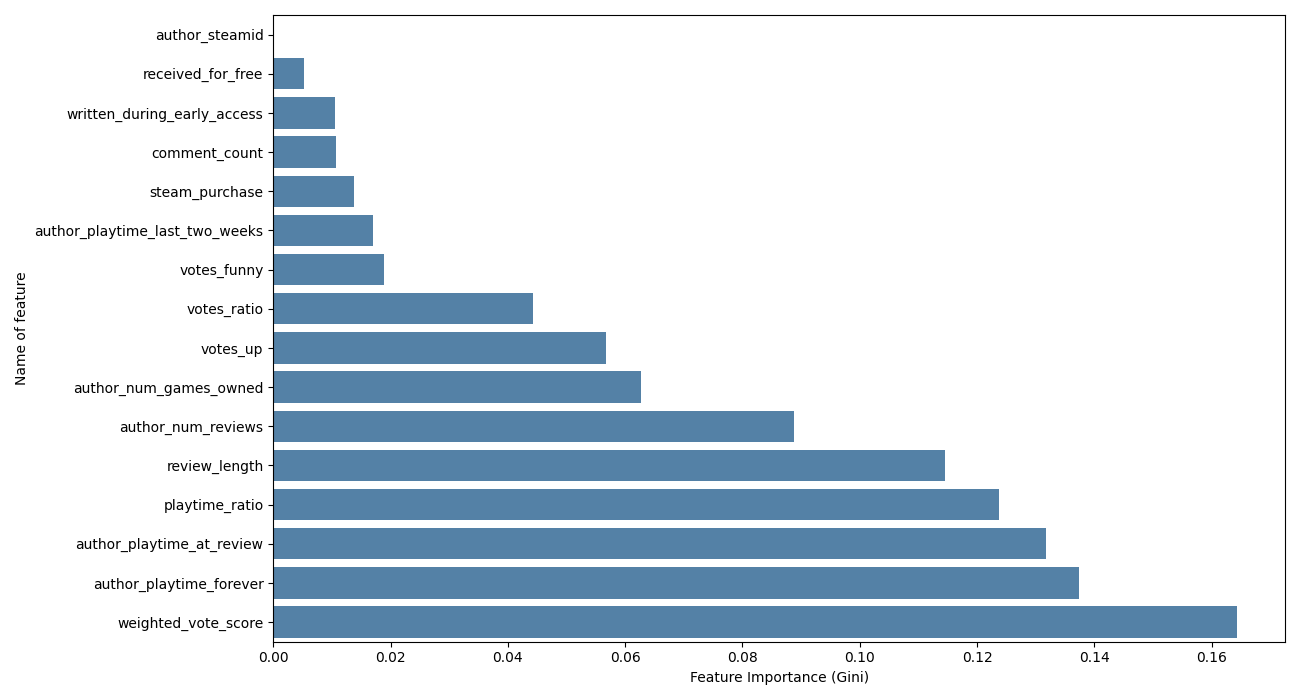
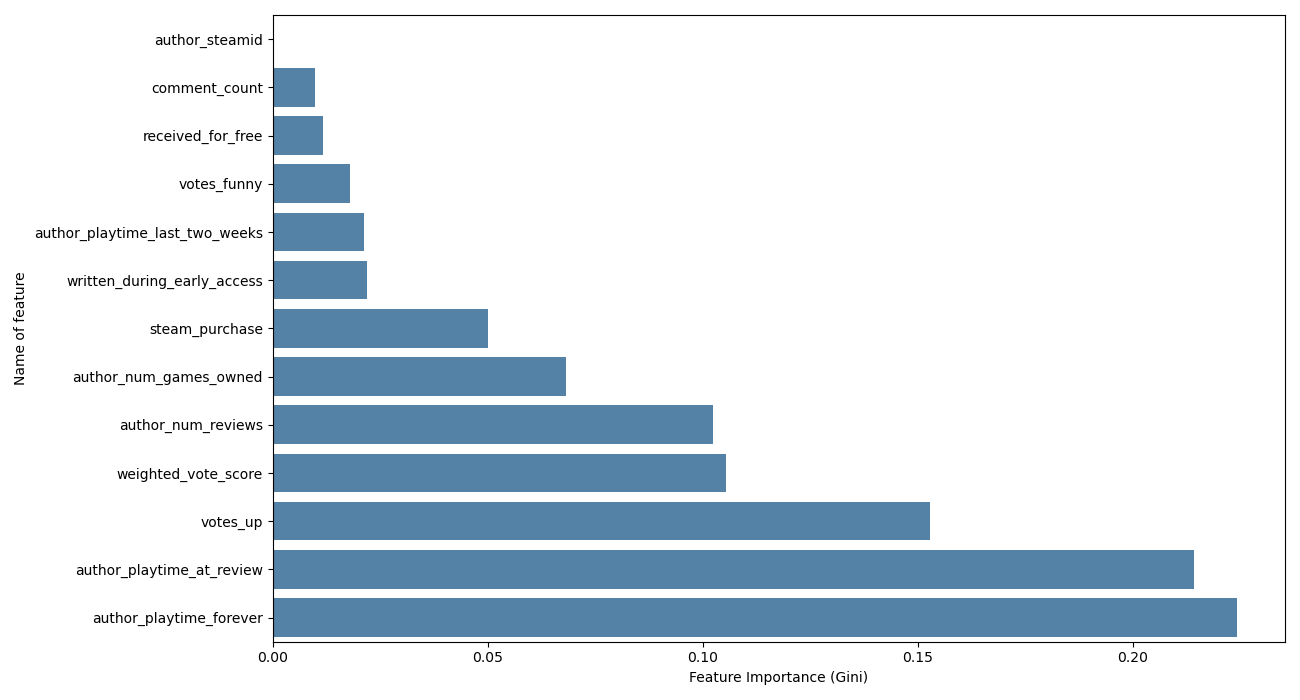
Added Licence, LSTM tuning to main

diff --git a/src/main.py b/src/main.py
@@ -6,7 +6,7 @@ from visualization.visualize import LogisticRegressionVisualizer, RandomForestVi
 
 def main():
     processor = PreProcessor("src/data/raw/balanced_10m_reviews.csv")
-    df = processor.preprocess(100000)
+    df = processor.preprocess(1000000)
     
     feature_builder = LogisticRegressionFeatureEngineering(df)
     #Save original feature list
@@ -63,19 +63,24 @@ def main():
     lstm_train_df, lstm_test_df = lstm_builder.split_data()
     lstm_trainer = LSTMTraining(lstm_train_df, lstm_test_df)
     lstm_results = lstm_trainer.run_lstm_pipeline()
-    print("\nLSTM Results:")
-    for k, v in lstm_results.items():
-        print(f"{k}: {v}")
+    
+    
         
     lstm_plot = LSTMVisualizer(lstm_trainer.model, lstm_trainer.history, lstm_trainer.y_test, lstm_trainer.y_pred, lstm_trainer.y_pred_proba)
     lstm_plot.plot_all()
+    
+    lstm_tuned = lstm_trainer.run_lstm_pipeline(tune=True)
+
+    lstm_tuned_plot = LSTMVisualizer(lstm_trainer.model, lstm_trainer.history, lstm_trainer.y_test, lstm_trainer.y_pred, lstm_trainer.y_pred_proba)
+    lstm_tuned_plot.plot_all()
     
     
     comparison = ModelComparisonVisualizer({
         "Logistic Regression": lr_results,
         "Random Forest": rf_results,
         "TF-IDF LR": tfidf_results,
-        "LSTM": lstm_results
+        "LSTM": lstm_results,
+        "Tuned LSTM": lstm_tuned
     })
     comparison.plot_comparison()
     